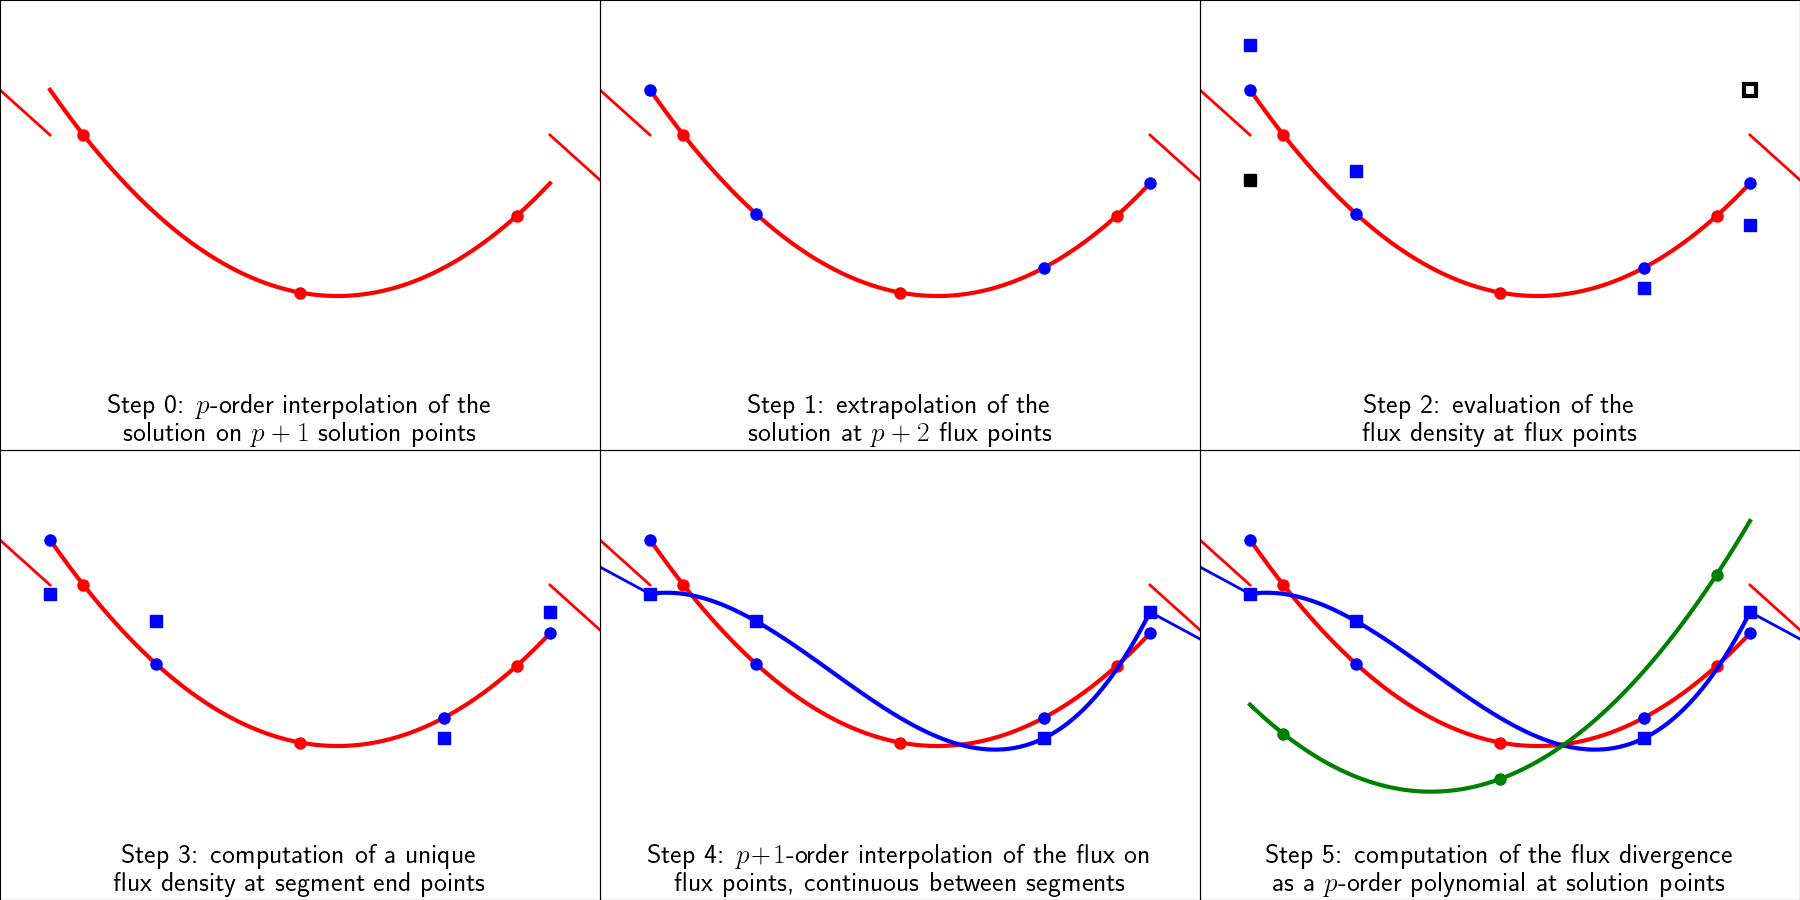
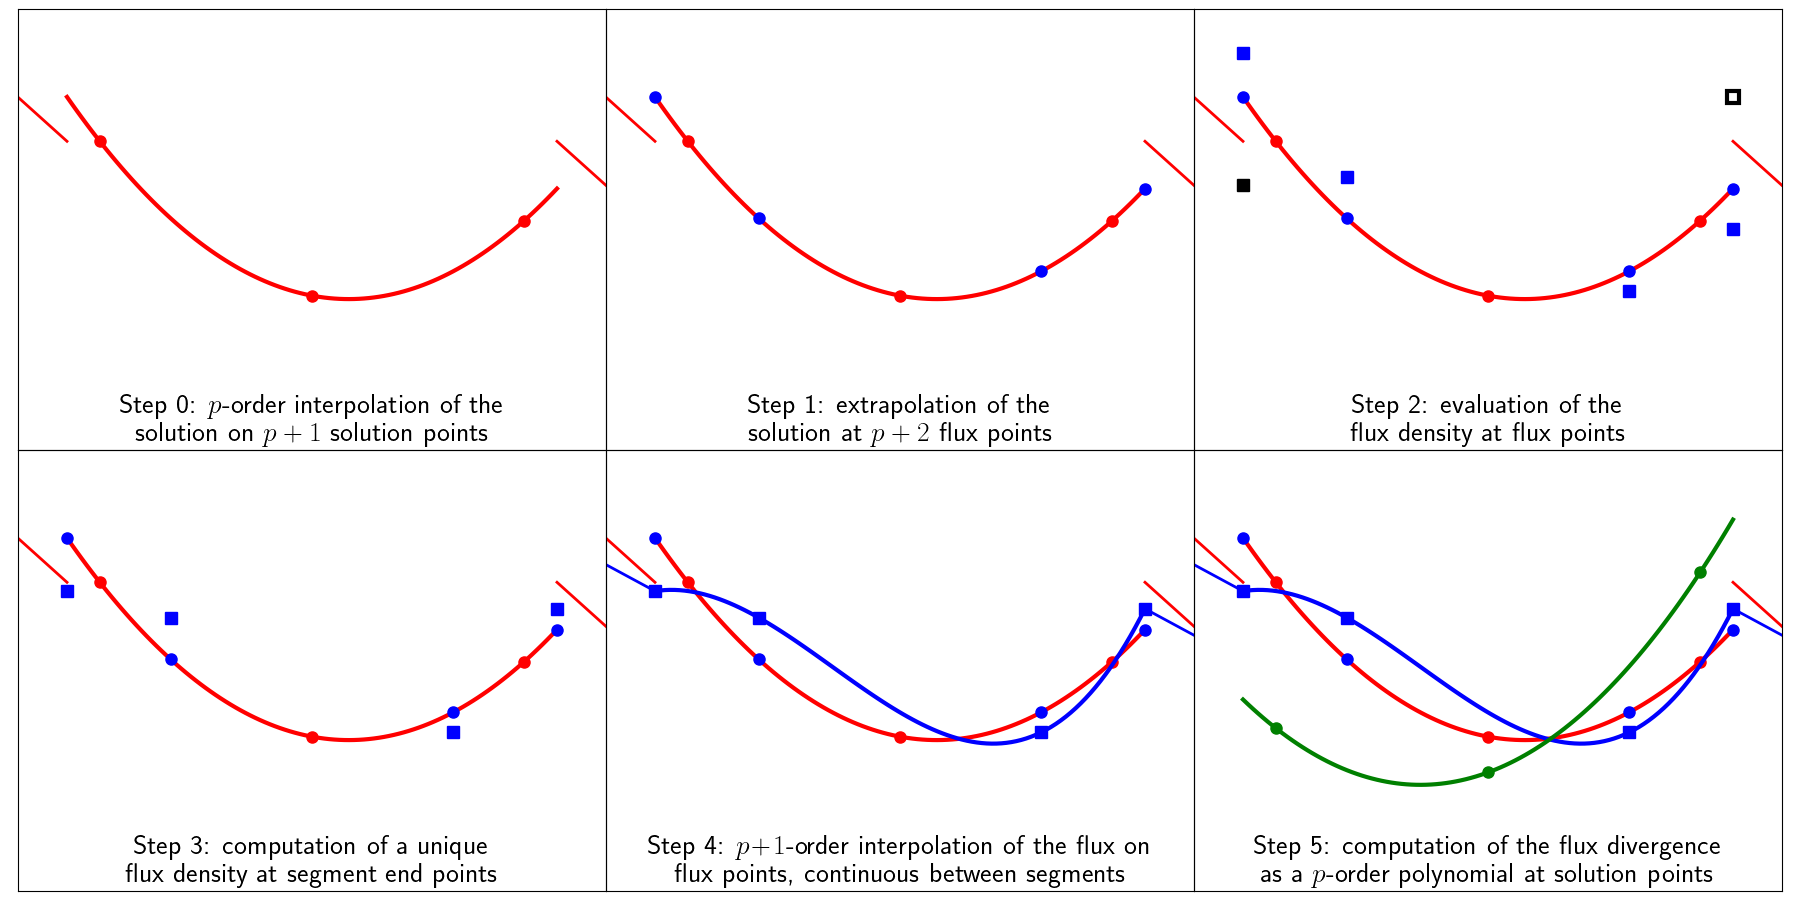
WIP

diff --git a/figures/figures_matplotlib.py b/figures/figures_matplotlib.py
@@ -671,7 +671,7 @@ def sd_scheme():
     ax5.plot(mesh, 0.2 * f_c.derivative(mesh) - 1, 'g', lw=3)
     ax5.plot(sol_p, 0.2 * f_c.derivative(sol_p) - 1, 'go', ms=8)
 
-    plt.subplots_adjust(0, 0, 1, 1, 0, 0)
+    plt.subplots_adjust(0.01, 0.01, 0.99, 0.99, 0, 0)
     # plt.show()
     fig.savefig('sd_scheme.png', transparent=True)
 
